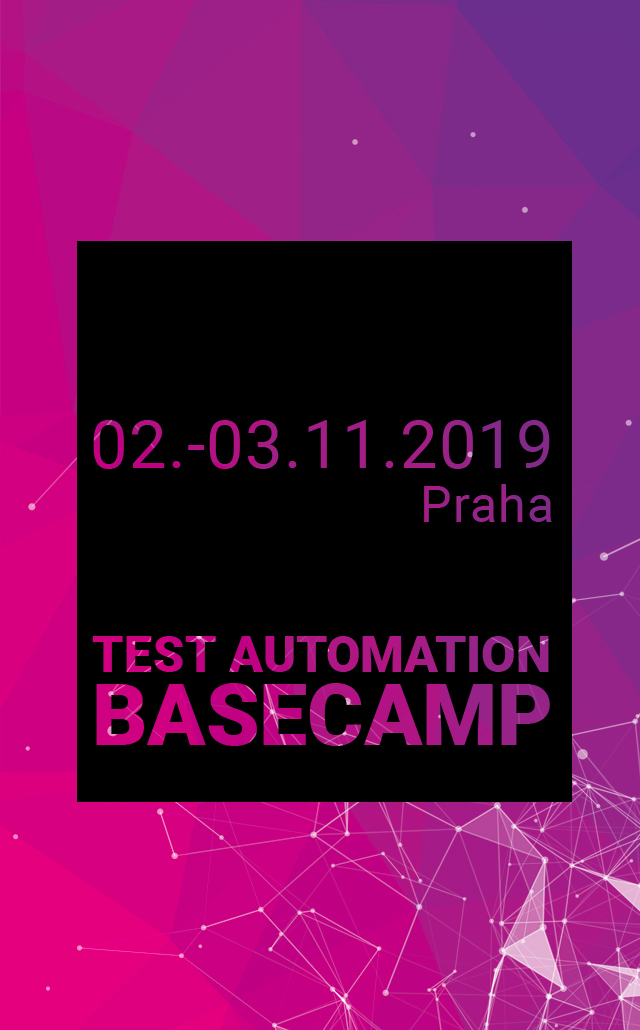
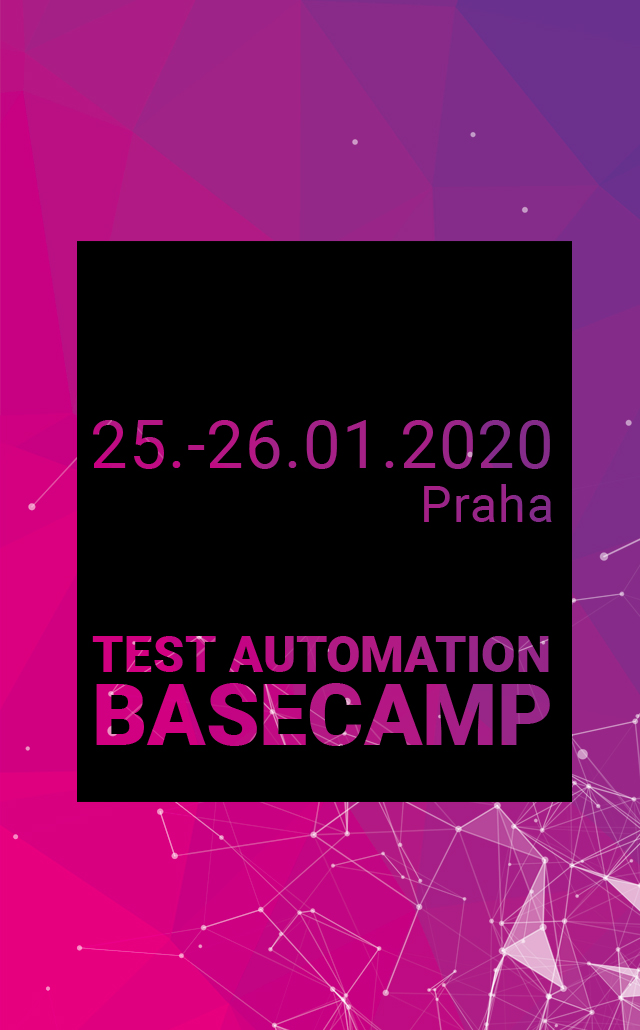
TAB: update new termin udpated

diff --git a/index.html b/index.html
@@ -326,7 +326,7 @@
                               <h4 class="headline bottom-line left">Cílová skupina</h4>
                               <ul>
                                 <li>Testeři začátečníci</li>
-                                <li>Testeři pokročilý</li>
+                                <li>Testeři pokročilí</li>
                                 <li>Test Manager / Test Lead</li>
                               </ul>
                             </div>
@@ -353,8 +353,8 @@
                         <div class="col-xs-12">
                           <div class="row">
                             <div class="col-xs-12">
-                              <h2 class="headline bottom-line left">Praha / 02.-03.11.2019</h2>
-                              <h3>8 volných míst</h3>
+                              <h2 class="headline bottom-line left">Praha / 25.-26.01.2020</h2>
+-                              <h3>8 volných míst</h3>
                               <p>Spoluorganizátorem je <a target="_blank" href="https://www.linkedin.com/in/tomas-pribyl-0a699a3a/">Tomáš Přibyl</a>, partnerem a zároveň místem tréninku je <a target="_blank" href="https://joyfulcraftsmen.com/">Joyful Craftsmen</a>. Děkujeme za podporu.</p>
                             </div>
                           </div>
